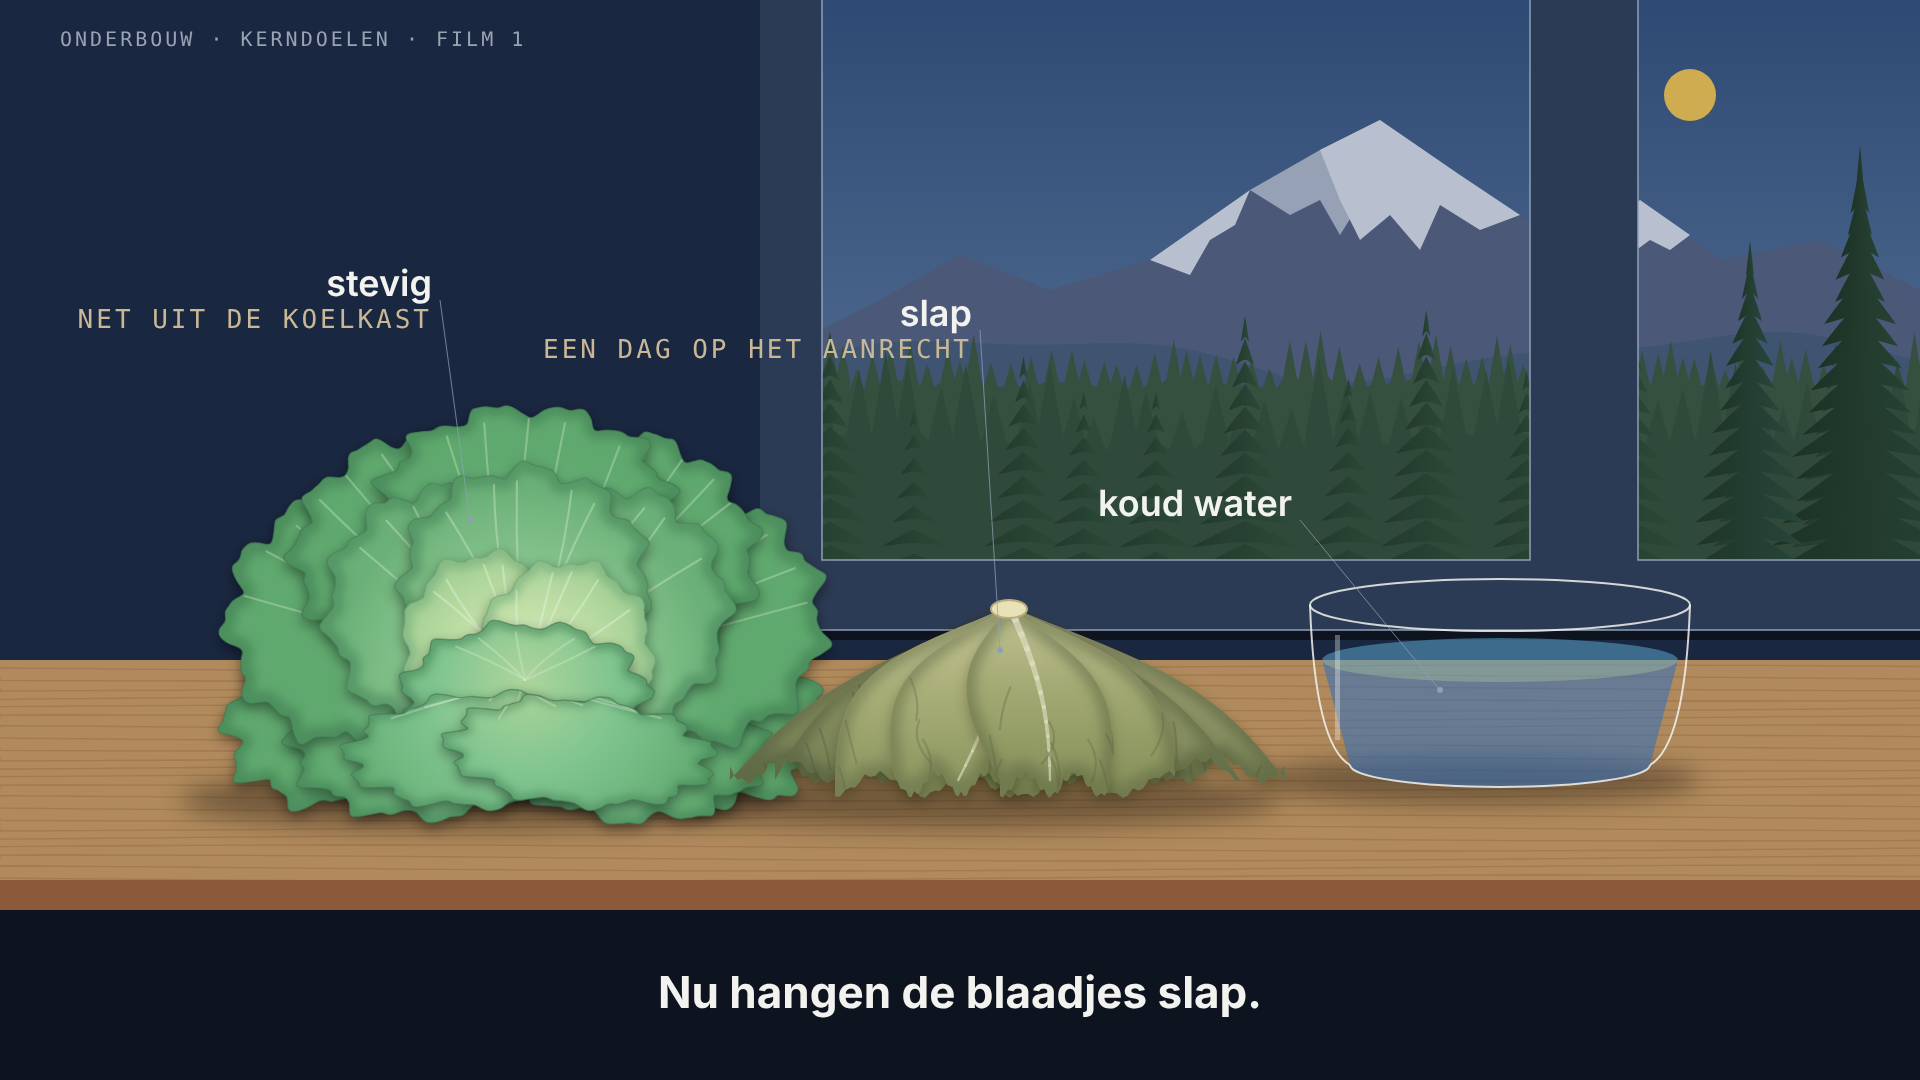
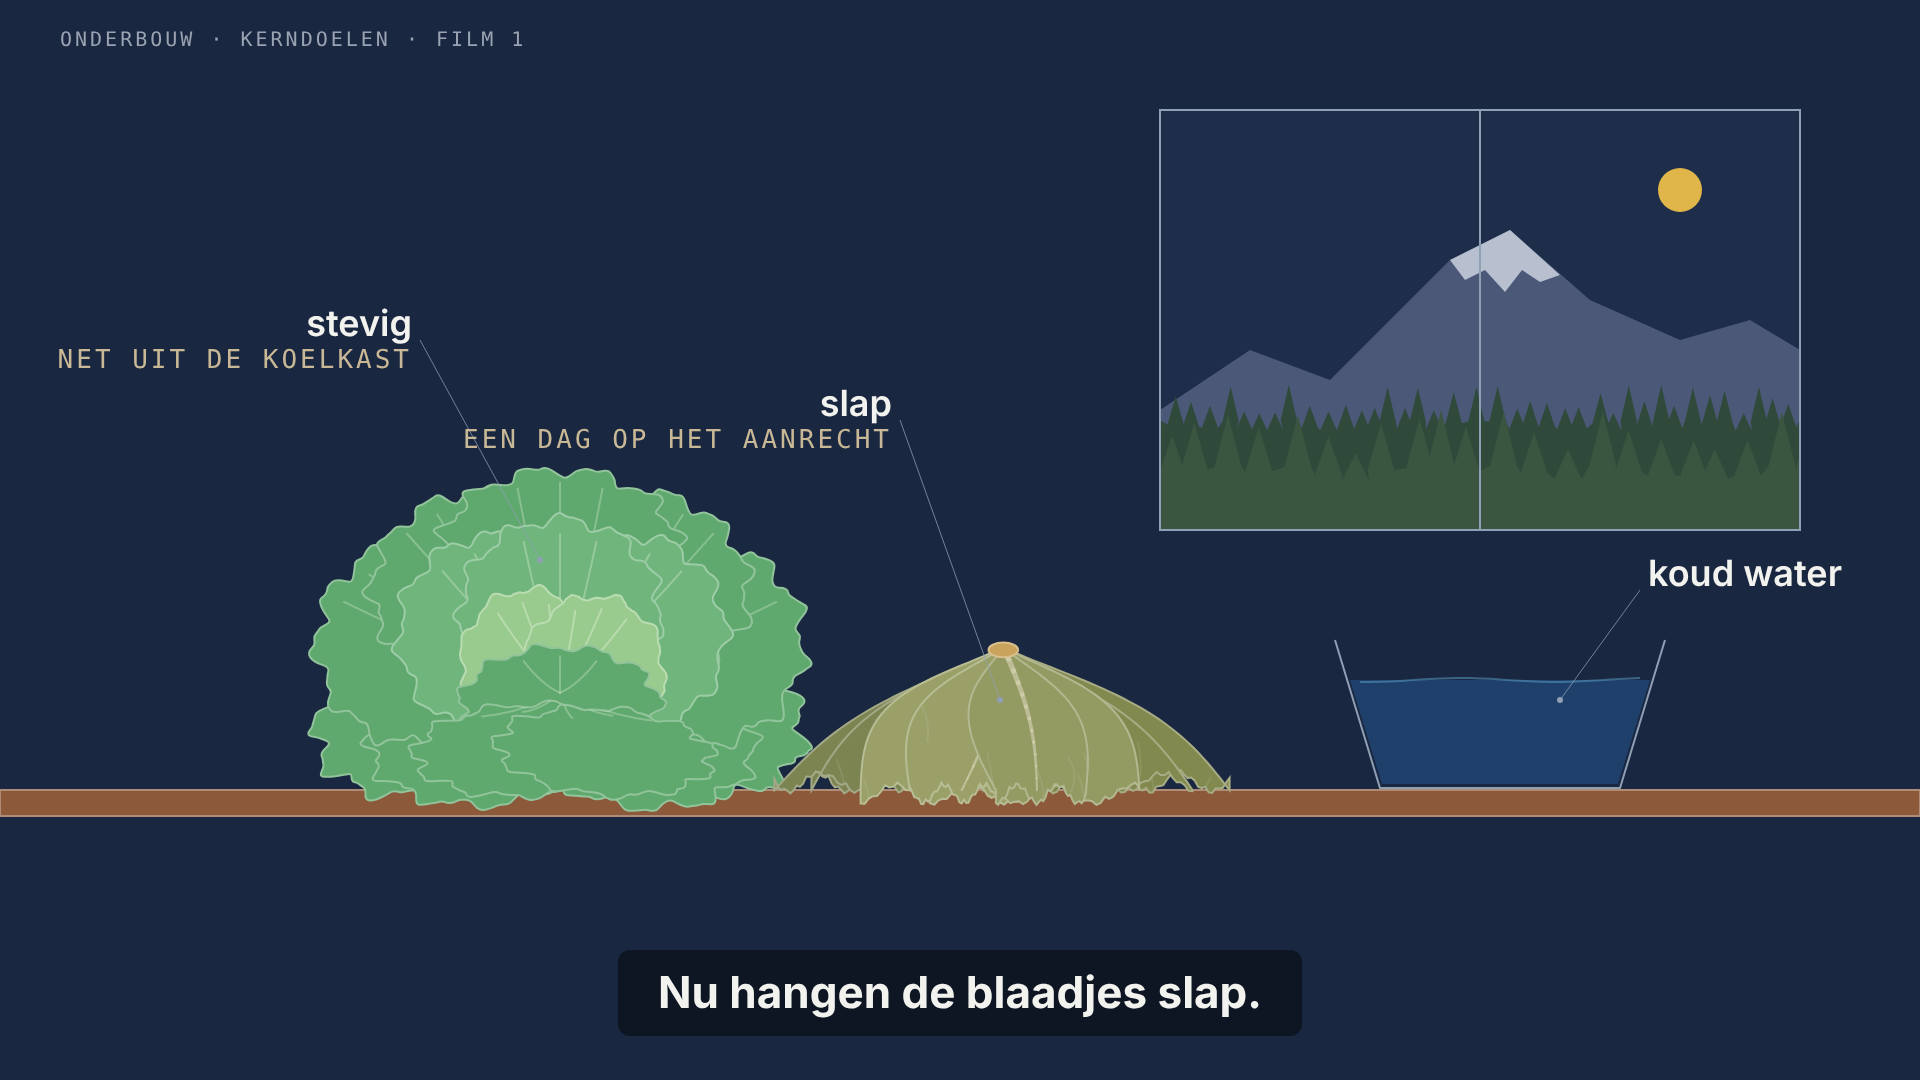
Alles is cel: stijlframe keuken v5 (vlak, zoals de andere films)
Claude-Session: https://claude.ai/code/session_01Gw2DRjDkRH759fcBi7bc7z

diff --git a/films/onderbouw/32a/1-alles-is-cel/bron/bouw/frames.html b/films/onderbouw/32a/1-alles-is-cel/bron/bouw/frames.html
@@ -304,8 +304,13 @@ function blobPath(cx,cy,rx,ry,rot,seed,waves,amp,from,to){
   ctx.beginPath(); pts.forEach((q,i)=>{ const n=pts[(i+1)%N], m=[(q[0]+n[0])/2,(q[1]+n[1])/2]; if(!i) ctx.moveTo(m[0],m[1]); else ctx.quadraticCurveTo(q[0],q[1],m[0],m[1]); }); ctx.closePath();
   return pts;
 }
+let FLAT=false;
 function lettuceLeaf(cx,cy,rx,ry,rot,seed,lx,ly,cols,opt){
   opt=opt||{};
+  if(FLAT){ blobPath(cx,cy,rx,ry,rot,seed,opt.waves||11,opt.amp||0.07); shape(ctx,cols[1],lighten(cols[1],0.32),2);
+    ctx.save(); blobPath(cx,cy,rx,ry,rot,seed,opt.waves||11,opt.amp||0.07); ctx.clip(); ctx.strokeStyle=rgba(cols[4],0.35); ctx.lineWidth=2; ctx.lineCap='round';
+    for(let k=0;k<3;k++){ const a=rot+(k-1)*0.45; const ex=cx+Math.cos(a-1.57)*rx*0.85, ey=cy+Math.sin(a-1.57)*ry*0.85; ctx.beginPath(); ctx.moveTo(lx,ly); ctx.quadraticCurveTo((lx+ex)/2,(ly+ey)/2+8,ex,ey); ctx.stroke(); }
+    ctx.restore(); return; }
   ctx.save();
   ctx.shadowColor=SHADOW; ctx.shadowBlur=14; ctx.shadowOffsetY=5;
   blobPath(cx,cy,rx,ry,rot,seed,opt.waves||11,opt.amp||0.07);
@@ -355,21 +360,22 @@ function slappeKrop(x,y,s){
     for(let i=0;i<=N;i++) pts.push(edge(xa,-1,i/N));
     for(let i=0;i<=N;i++){ const t=i/N, hx=xa+(xb-xa)*t; pts.push([hx, hemY+(Math.sin(t*14+k*2)*11+Math.abs(Math.sin(t*37+k))*7)*s-(front?0:14*s)]); }
     for(let i=N;i>=0;i--) pts.push(edge(xb,1,i/N));
-    ctx.save(); ctx.shadowColor='rgba(40,40,10,0.32)'; ctx.shadowBlur=14; ctx.shadowOffsetY=5;
+    if(FLAT){ leafPath(pts); shape(ctx,c[1],lighten(c[1],0.3),2); ctx.save(); leafPath(pts); ctx.clip(); }
+    else { ctx.save(); ctx.shadowColor='rgba(40,40,10,0.32)'; ctx.shadowBlur=14; ctx.shadowOffsetY=5;
     leafPath(pts); const g=ctx.createLinearGradient(0,top[1],0,hemY); g.addColorStop(0,c[0]); g.addColorStop(0.5,c[1]); g.addColorStop(1,c[2]); ctx.fillStyle=g; ctx.fill(); ctx.restore();
     ctx.save(); leafPath(pts); ctx.clip();
-    ctx.strokeStyle=c[3]; ctx.globalAlpha=0.5; ctx.lineWidth=18*s; ctx.filter='blur(6px)'; leafPath(pts); ctx.stroke(); ctx.filter='none';
+    ctx.strokeStyle=c[3]; ctx.globalAlpha=0.5; ctx.lineWidth=18*s; ctx.filter='blur(6px)'; leafPath(pts); ctx.stroke(); ctx.filter='none'; }
     // a light, tapering midrib on the front drapes only
     if(front){ const mx=(xa+xb)/2+(h-0.5)*40*s; ctx.globalAlpha=0.6; ctx.strokeStyle=RIB; ctx.lineCap='round';
       for(let i=0;i<12;i++){ const t1=i/12, t2=(i+1)/12; ctx.lineWidth=(7-5*t1)*s; ctx.beginPath();
         ctx.moveTo(top[0]+(mx-top[0])*t1+Math.sin(t1*3)*12*s, top[1]+(hemY-top[1])*t1); ctx.lineTo(top[0]+(mx-top[0])*t2+Math.sin(t2*3)*12*s, top[1]+(hemY-top[1])*t2); ctx.stroke(); } }
     // wrinkles: short curved creases near the hem
-    ctx.globalAlpha=0.32; ctx.strokeStyle=c[3]; ctx.lineWidth=2.2;
-    for(let w=0;w<9;w++){ const t=0.45+0.5*hash(k*9+w), u=hash(k*13+w*3); const p1=edge(xa,-1,t), p2=edge(xb,1,t); const px=p1[0]+(p2[0]-p1[0])*u, py=p1[1]+(p2[1]-p1[1])*u;
+    ctx.globalAlpha=FLAT?0.25:0.32; ctx.strokeStyle=FLAT?lighten(c[1],0.35):c[3]; ctx.lineWidth=2;
+    for(let w=0;w<(FLAT?5:9);w++){ const t=0.45+0.5*hash(k*9+w), u=hash(k*13+w*3); const p1=edge(xa,-1,t), p2=edge(xb,1,t); const px=p1[0]+(p2[0]-p1[0])*u, py=p1[1]+(p2[1]-p1[1])*u;
       ctx.beginPath(); ctx.moveTo(px,py); ctx.quadraticCurveTo(px+(hash(w+k)-0.5)*30*s,py+20*s,px+(hash(w*2+k)-0.5)*24*s,py+42*s); ctx.stroke(); }
     ctx.restore();
   });
-  ctx.fillStyle='#E9E2B8'; ctx.beginPath(); ctx.ellipse(top[0],top[1]+4*s,18*s,9*s,0,0,6.283); ctx.fill(); ctx.strokeStyle='#B8AD78'; ctx.lineWidth=2; ctx.stroke();
+  ctx.beginPath(); ctx.ellipse(top[0],top[1]+4*s,18*s,9*s,0,0,6.283); shape(ctx,FLAT?C.oker:'#E9E2B8',FLAT?lighten(C.oker,0.3):'#B8AD78',2);
 }
 function treeLine(X,Wd,base,hMin,hVar,step,seed){
   // silhouette of many tree tops merged into one path
@@ -514,6 +520,43 @@ function frameKeuken4(){
   caption('Nu hangen de blaadjes slap.');
 }
 
+
+// ================= keuken v5: zo dicht mogelijk bij de Part C-films (vlak, veel ruimte, dunne lijnen) =================
+function frameKeuken5(){
+  const keep=[BOT,BOT2,HART,SLAPF,SLAPB,RIB];
+  FLAT=true;
+  BOT=[0,'#5FA86E',0,0,'#D8EBCF']; BOT2=[0,'#6FB57C',0,0,'#E0F0D8']; HART=[0,'#9ACB8E',0,0,'#F2F8E8'];
+  SLAPF=[[0,'#9AA068'],[0,'#939A62']]; SLAPB=[[0,'#7C8452'],[0,'#81894F']]; RIB='#D8D6B8';
+  bg(ctx,'schema');
+  // window as a thin line drawing with a flat landscape inside
+  const X=1160,Y=110,Wd=640,Hd=420;
+  ctx.save(); ctx.beginPath(); ctx.rect(X,Y,Wd,Hd); ctx.clip();
+  ctx.fillStyle=C.bgMacroSky; ctx.fillRect(X,Y,Wd,Hd);
+  ctx.beginPath(); ctx.arc(X+520,Y+80,22,0,6.283); ctx.fillStyle=C.goud; ctx.fill();
+  const m=[[X,Y+300],[X+90,Y+240],[X+170,Y+270],[X+290,Y+150],[X+350,Y+120],[X+430,Y+190],[X+520,Y+230],[X+590,Y+210],[X+Wd,Y+240],[X+Wd,Y+Hd],[X,Y+Hd]];
+  leafPath(m); ctx.fillStyle=C.berg; ctx.fill();
+  leafPath([[X+350,Y+120],[X+400,Y+165],[X+380,Y+172],[X+362,Y+160],[X+345,Y+182],[X+325,Y+160],[X+305,Y+170],[X+290,Y+150]]); ctx.fillStyle=C.bergTop; ctx.fill();
+  ctx.fillStyle=C.bgMacroHill; leafPath(treeLine(X,Wd,Y+330,26,30,18,3)); ctx.fill();
+  ctx.fillStyle=C.bgMacroFront; leafPath(treeLine(X,Wd,Y+385,40,50,30,8)); ctx.fill();
+  ctx.restore();
+  ctx.strokeStyle=C.line; ctx.lineWidth=2; ctx.strokeRect(X,Y,Wd,Hd); ctx.beginPath(); ctx.moveTo(X+Wd/2,Y); ctx.lineTo(X+Wd/2,Y+Hd); ctx.stroke();
+  // counter: one flat band
+  ctx.beginPath(); ctx.rect(0,790,W,26); shape(ctx,C.bruin,lighten(C.bruin,0.3),2);
+  stevigeKrop(560,660,0.82);
+  slappeKrop(1000,782,0.82);
+  // glass bowl, drawn like the beakers in the other films
+  const bx=1500, top=640, bot=788;
+  ctx.beginPath(); ctx.moveTo(bx-150,top+40); ctx.lineTo(bx+150,top+40); ctx.lineTo(bx+118,bot-4); ctx.lineTo(bx-118,bot-4); ctx.closePath(); ctx.fillStyle=rgba(C.water,0.35); ctx.fill();
+  ctx.strokeStyle=C.line; ctx.lineWidth=2; ctx.beginPath(); ctx.moveTo(bx-165,top); ctx.lineTo(bx-120,bot); ctx.lineTo(bx+120,bot); ctx.lineTo(bx+165,top); ctx.stroke();
+  for(let k=0;k<5;k++){ ctx.strokeStyle=rgba(C.teal,0.5); ctx.lineWidth=2; ctx.beginPath(); for(let x=bx-140;x<=bx+140;x+=10){ const y=top+40+Math.sin(x/30+k)*2; x>bx-140?ctx.lineTo(x,y):ctx.moveTo(x,y);} if(!k) ctx.stroke(); }
+  FLAT=false; [BOT,BOT2,HART,SLAPF,SLAPB,RIB]=keep;
+  label(ctx,'stevig','net uit de koelkast',540,560,420,340,1);
+  label(ctx,'slap','een dag op het aanrecht',1000,700,900,420,1);
+  label(ctx,'koud water','',1560,700,1640,590,1);
+  metaTop('onderbouw · kerndoelen · film 1');
+  caption('Nu hangen de blaadjes slap.');
+}
+
 let FOTO=null;
 function frameFoto(){
   ctx.drawImage(FOTO,0,0,W,H);
@@ -522,7 +565,7 @@ function frameFoto(){
   pillLabel('koud water','',1500,720,1560,860,true);
   caption('Nu hangen de blaadjes slap.');
 }
-window.FRAMES={keuken4:frameKeuken4,keuken3:frameKeuken3,foto:frameFoto,keuken:frameKeuken,vacuole:frameVacuole,vraag:frameVraag,model:frameModel};
+window.FRAMES={keuken5:frameKeuken5,keuken4:frameKeuken4,keuken3:frameKeuken3,foto:frameFoto,keuken:frameKeuken,vacuole:frameVacuole,vraag:frameVraag,model:frameModel};
 window.loadFoto=(src)=>new Promise(r=>{FOTO=new Image(); FOTO.onload=r; FOTO.src=src;});
 window.draw=(k)=>{ ctx.setTransform(1,0,0,1,0,0); ctx.clearRect(0,0,W,H); FRAMES[k](); };
 </script></body></html>
